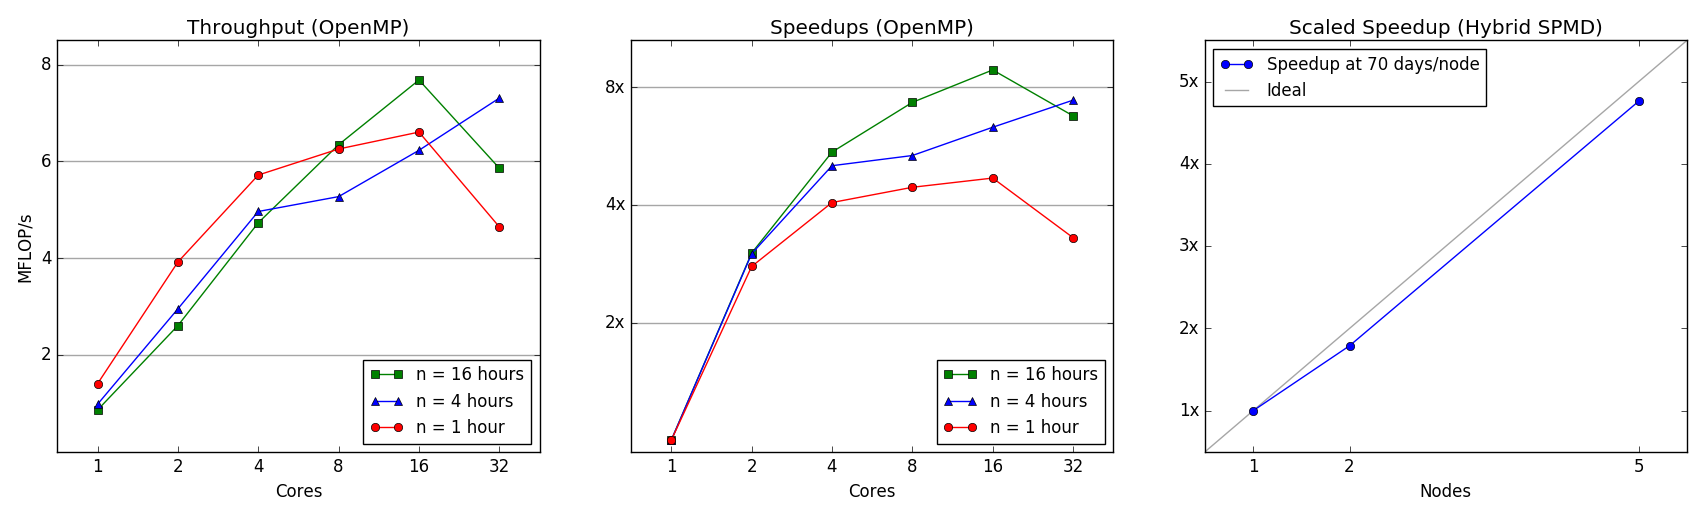
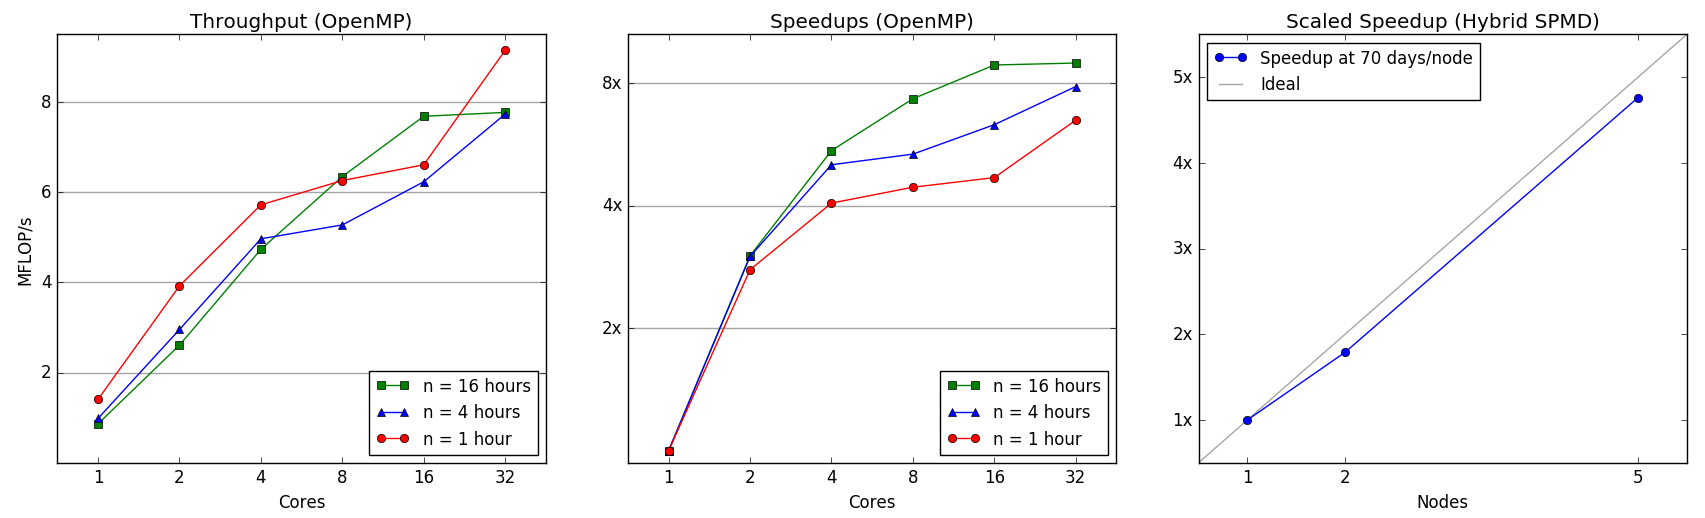
readme edits

diff --git a/README.md b/README.md
@@ -53,23 +53,25 @@ The above plots illustrate several steps in this pipeline, beginning with the si
 
 ## Hybrid SPMD Parallelization for Accelerometer Data Processing
 
-# Shared Memory (OpenMP)
+### Shared Memory (OpenMP)
 
-The processing pipeline was initially coded in Python.  The optimization strategy adopted the hybrid SPMD model, and took place in two stages.  First, several key segments of code were rewritten as C extensions with Cython, and then implemented as multithreaded algorithms.  This was especially important for calculating five-second averages, a time-consuming computation due to nonuniform accelerometer sampling rates.  Using OpenMP functionality from the `cython.parallel` module, this shared-memory parallel algorithm speeded computation by concurrently performing multiple unbounded searches.
+The processing pipeline was initially coded in Python.  The optimization strategy adopted the hybrid SPMD model, and took place in two stages.  First, several key segments of code were rewritten as C extensions with Cython, and then implemented as multithreaded algorithms.  This was especially important for calculating five-second averages, a time-consuming computation due to nonuniform accelerometer sampling rates.  Using OpenMP functionality from the `cython.parallel` module, this parallel algorithm speeded computation by concurrently performing multiple unbounded searches.  Speedups and throughput for the shared-memory algorithm are shown below, at left and center.  For a typical dataset of 16 hours processed on 32 cores, throughput approached 8 MFLOP/s and runtime was reduced by a factor of 8.
 
 !["performance"](https://raw.githubusercontent.com/josh-barback/CS205_project/master/images/performance.png)
 
-# Message-Passing (MPI)
+### Message-Passing (MPI)
 
-In order to address concurrent processing of data from multiple participants, and to accommodate synchronization points involving data from multiple files, an explicit parallel programming approach was adopted for a second level of optimization.  Of particular interest was coordinating multiple processes prior to identifying individual cutoff points for activity classification, a task that required scanning several processed files from each participant.  The message passing framework was implemented with MPI functionality from the `mpi4py` package.  The final hybrid version of the processing code leverages resources from not only multiple nodes in a cluster, but also multiple cores; this allows relatively large accelerometer data sets (e.g. 100-400 days of data) to be processed in under one hour.
+In order to address concurrent processing of data from multiple participants, and to accommodate synchronization points involving data from multiple files, an explicit parallel programming approach was adopted for a second level of optimization.  Of particular interest was coordinating multiple processes prior to identifying individual cutoff points for activity classification, a task that required scanning several processed files from each participant.  The message passing framework was implemented with MPI functionality from the `mpi4py` package.  The final hybrid SPMD version of the processing code leverages resources from not only multiple nodes in a cluster, but also multiple cores; this allows relatively large accelerometer data sets (e.g. 100-400 days of data) to be processed in under one hour.  The scaled speedup is above right; performance was evaluated on 1, 2, and 5 nodes with problem sizes corresponding to 70, 140, and 350 simulated days of accelerometer data.
+
+### Results
 
 Each version of the code was benchmarked on a small data set containing 62 hours of accelerometer observations from two participants (130 MB).  Additional benchmarks were obtained with data from a simulated pilot study in which ten hypothetical participants contributed data for two weeks (2100 hours of accelerometer observations, 17 GB).
 
 !["runtime plots"](https://raw.githubusercontent.com/josh-barback/CS205_project/master/images/runtime_plots.png)
 
-Computation took place on the Odyssey Cluster's `seas_iacs` partition.  Preliminary versions of the code were run on individual nodes equipped with 32 cores; hybrid code was run on four such nodes.  Estimates for the actual data set were calculated by averaging runtimes for five repetitions of the data processing task.  For the simulated data, the task was completed only once by each version of the code.  The above plots show estimated processing speeds, in seconds per hour of accelerometer data, as well as speedups relative to the baseline of unaccelerated Python code.
+Computation took place on the Odyssey Cluster's `seas_iacs` partition.  Preliminary versions of the code were run on individual nodes equipped with 32 cores; hybrid code was run on four such nodes.  Estimates for the actual data set were calculated by averaging runtimes for five repetitions of the data processing task.  For the simulated data, the task was completed only once by each version of the code.  The above plots show estimated times-to-solution, in seconds per hour of accelerometer data, as well as speedups relative to the baseline of unaccelerated Python code.
 
-On a single node with 32 processors, the use of C extensions improves runtime by a factor of about 2, and OpenMP functionality yields a speedup factor of over 3.5.  On four contiguous nodes, the hybrid code is over 4.5 times as fast as unaccelerated Python code for the actual data task, and almost 14 times as fast for the larger hypothetical data task.  The difference may be due, in part, to startup costs associated with unzipping compressed files.  Only the hybrid code implements concurrent decompression, a considerable advantage for data sets that contain numerous zipped directories.  Prior to optimization, each hour of accelerometer data took multiple seconds to process; the hybrid code brings this processing time to under 0.6 seconds.
+On a single node with 32 processors, the use of C extensions reduces runtime by a factor of about 2, and OpenMP functionality yields a speedup factor of over 3.5.  On four contiguous nodes, the hybrid code is over 4.5 times as fast as unaccelerated Python code for the actual data task, and almost 14 times as fast for the larger hypothetical data task.  The difference may be due, in part, to startup costs associated with unzipping compressed files.  Only the hybrid code implements concurrent decompression, a considerable advantage for data sets that contain numerous zipped directories.  Prior to optimization, each hour of accelerometer data took multiple seconds to process; the hybrid code brings this processing time to under 0.6 seconds.
 
 
 ## Analysis of Physical Activity
@@ -84,26 +86,31 @@ The densities of these two distributions appear linear on a log-log plot, as sho
 
 !["histograms"](https://raw.githubusercontent.com/josh-barback/CS205_project/master/images/histograms_fit.png)
 
-Of special concern is the systematic missingness associated with battery-conservation strategies.  Accelerometer data collection over the course of a day may deplete a smartphone's battery by more than 50%.  Therefore, data collection is continuously interrupted.  For example, each minute of accelerometer data may be sandwiched between minutes when the sensor is turned off.
+Of special concern is the systematic missingness associated with battery-conservation strategies.  Accelerometer data collection over the course of a day may deplete a smartphone's battery by more than 50%.  Therefore, by design, data collection is continuously interrupted.  For example, each minute of accelerometer data may be sandwiched between minutes when the sensor is turned off.  The exact on-off pattern of the sensor may be determined by the researcher during the study planning phase.
 
 !["missing data"](https://raw.githubusercontent.com/josh-barback/CS205_project/master/images/missing_data.png)
 
 While this missingness is "uninformative" at the level of the binary time series, longer bursts will be disproportionately interrupted, leading to biased estimates of distribution parameters.  (In the case of the power law exponent, estimates will be biased upwards.)  A possible solution may be a multiple imputation strategy based on stochastic models of the binary time series.  While imputation for accelerometer data has been studied in the past [9], estimation of parameters for bursty periods and inter-event times has yet to be examined in this context.
 
 
+## Advanced Features:  Parallelized Simulations with a Memoryless Imputation Model
 
-## Advanced Features:  Model and Parallelization
+Complete, uninterrupted days of accelerometer data were used as the basis for a simulation study designed to examine the viability of multiple imputation for missing data, and to assess the impact of missingness on parameter estimation.  A memoryless process was adopted as a stochastic data-generating model for the binary time series.  This model can be though of as a Markov chain of order *m*, or equivalently, a saturated logistic regression model with *m* predictors, where *m* is half the length of an accelerometer on-period.
 
-# Markov Model
+To implement this simulation, four days of complete accelerometer data were systematically downsampled with on/off cycles ranging from 30 seconds to two minutes.  For each set of downsampled data, the memoryless model was first fitted to the available data, and then used to generate 1000 imputated data sets.  The power law exponent was estimated from each imputed data set, and the average of these estimates was compared to the "true" estimate from the original complete data.
 
-# Parallelization
+While the data processing pipeline needed to accommodate hundreds of hours of data, this simulation required only that four days of data be processed in a reasonable time frame.  Therefore, the optimization approach taken here was to 
 
-
+As before, C extensions with Open MP parallelization were implemented in combination with explicit parallel processing with MPI.  The resulting hybrid SPMD implementation of the simulation ran in about four hours on four 32-core nodes.
 
 !["imputation results"](https://raw.githubusercontent.com/josh-barback/CS205_project/master/images/imputation_results.png)
 
+The above plots show the bias of the naive estimates (red) and imputation-based estimates (green) for the exponents of the activity distributions.  While the imputation strategy appears to be a substantial improvement over the naive approach, especially in the case of the active burst distribution, the imputation-based estimate is nevertheless consistently biased downward by several percent.
 
 
+## Conclusion
+
+Smartphone accelerometry offers the possibility of important insights into human physical activity.  However, large data sets and a variety of missing data features create special challenges.  In this project, parallel programming was used to address both of these issues.  A hybrid SPMD programming model facilitated efficient data processing, reducing runtimes by a factor of 14.  And the same programming approach also allowed rapid evaluation of a multiple imputation strategy for parameter estimation.
 
 
 ## References
